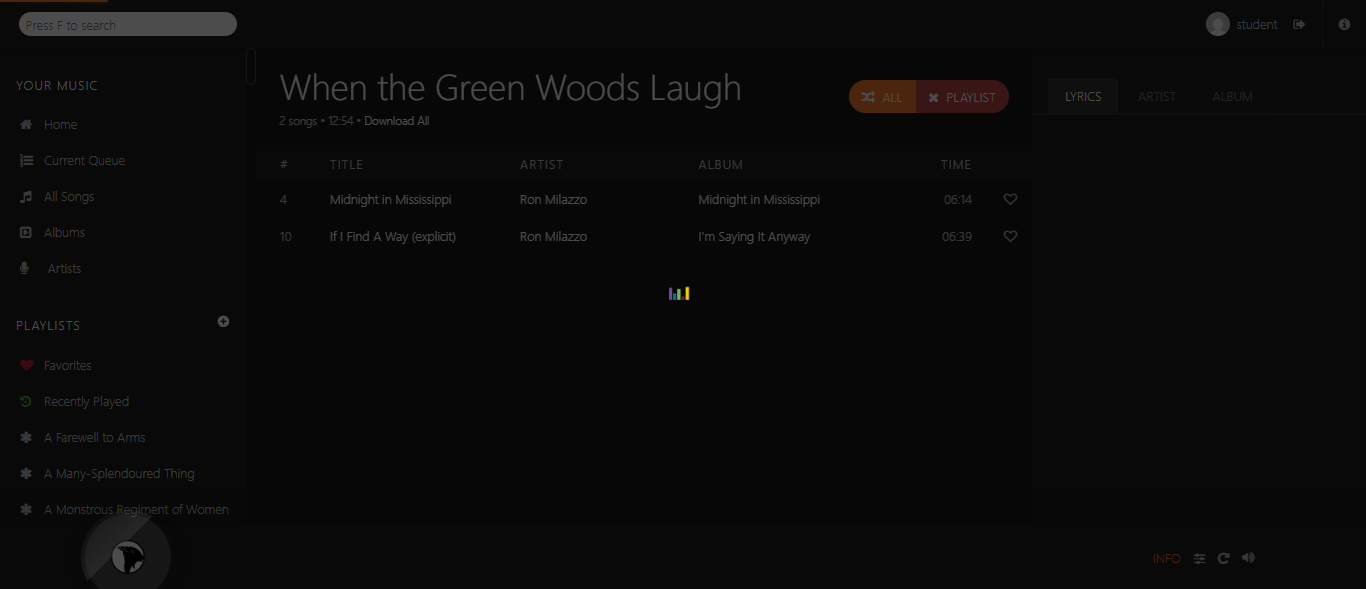
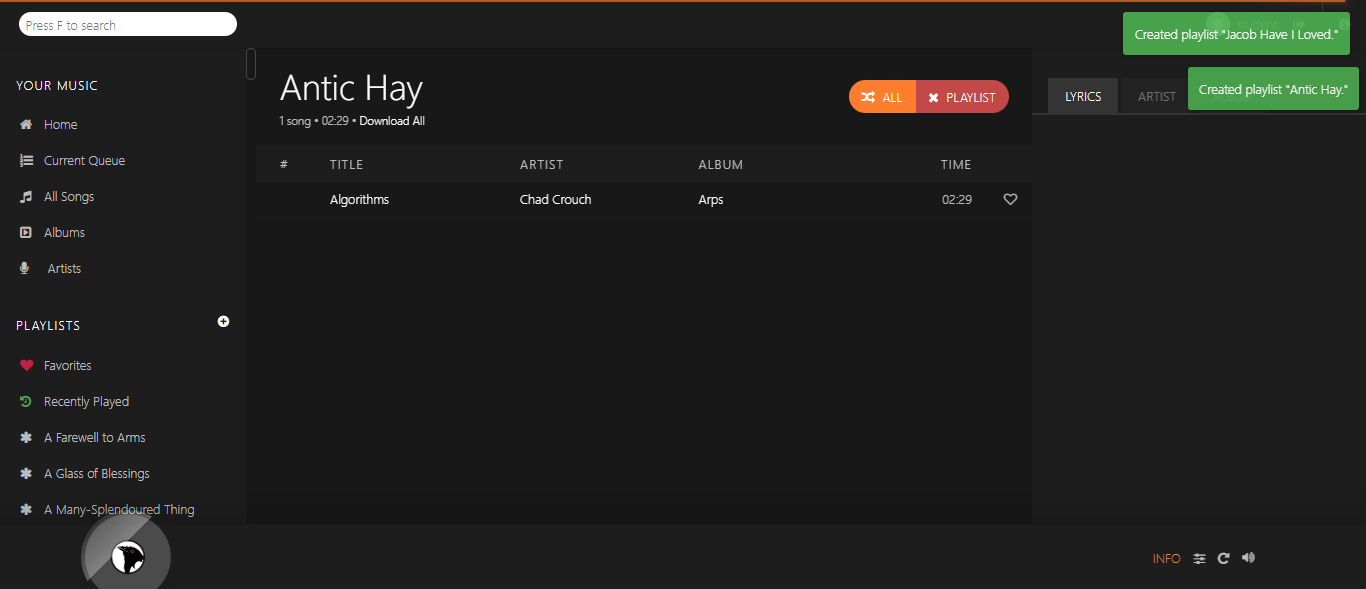
create Smart Plist and check songs in it matched to him

diff --git a/src/test/java/SmartPlayListTest.java b/src/test/java/SmartPlayListTest.java
@@ -141,12 +141,13 @@ public class SmartPlayListTest extends BaseTest {
         HomePage homePage = new HomePage(driver);
         SmartPlayListPage smart = new SmartPlayListPage(driver);
         loginPage.login(myEmail, myLogin);
-        String SmartPlistName = generateRandomPlaylistBookName();
+
         // pick the name of artist
         List<String>artists = GetSQLInfo.listOfArtists();
         Iterator<String> name = artists.iterator();
         // iterate through Artist names
         while (name.hasNext()) {
+            String SmartPlistName = generateRandomPlaylistBookName();
             String Artist = name.next();
             //pick the  first song of the chosen artist
             String songArtist = GetSQLInfo.listOfSongsBelongsToEachAuthor().get(Artist).get(0);
@@ -165,7 +166,7 @@ public class SmartPlayListTest extends BaseTest {
             Select select1 = new Select(dropDownOption);
             select1.selectByVisibleText("is");
             driver.findElement(By.name("value[]")).sendKeys(Artist);
-            Thread.sleep(5000);
+            Thread.sleep(1000);
             driver.findElement(By.cssSelector("footer [type = 'submit']")).click();
 
             assertTrue(homePage.getAvatar());
@@ -174,6 +175,7 @@ public class SmartPlayListTest extends BaseTest {
             String textOnScreen = text.getText();
             System.out.println(textOnScreen);
             if (!textOnScreen.equalsIgnoreCase(songArtist)) {
+                Thread.sleep(300);
                 File srcFile = ((TakesScreenshot) driver).getScreenshotAs(OutputType.FILE);
                 try {
                     FileHandler.copy(srcFile, new File("./ScreenShots/smartPlist"+Artist+".png"));
